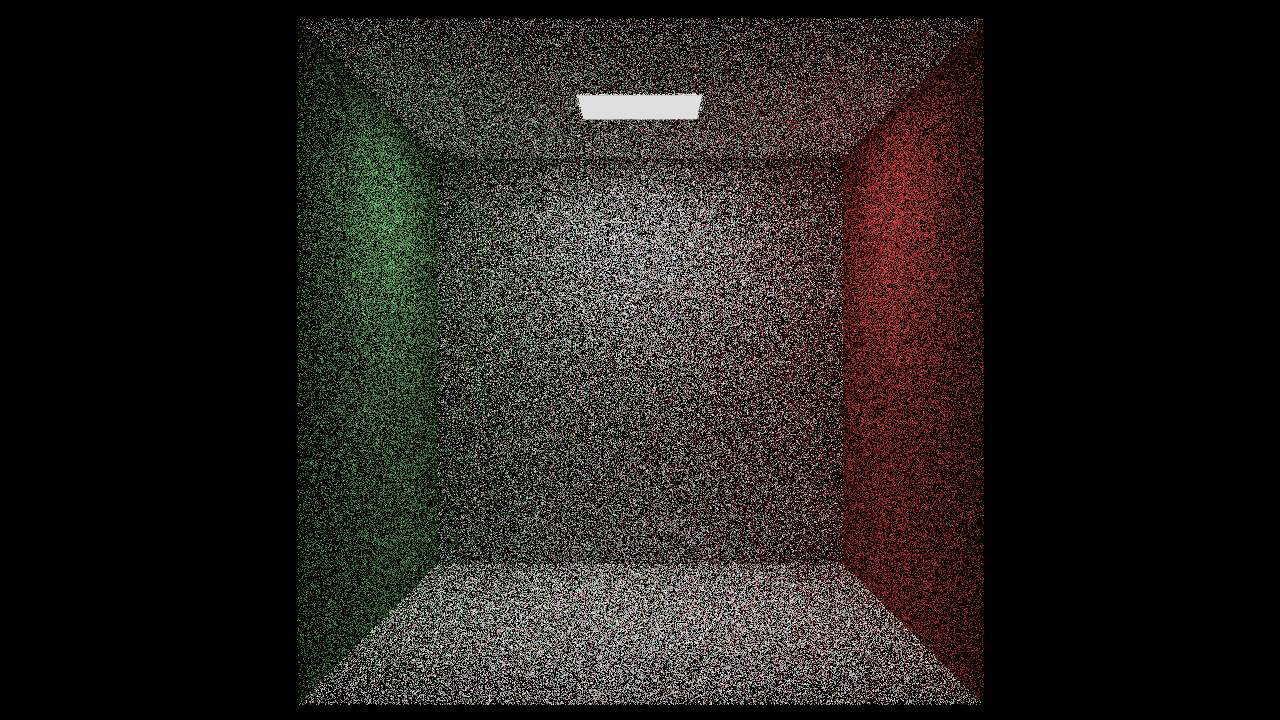
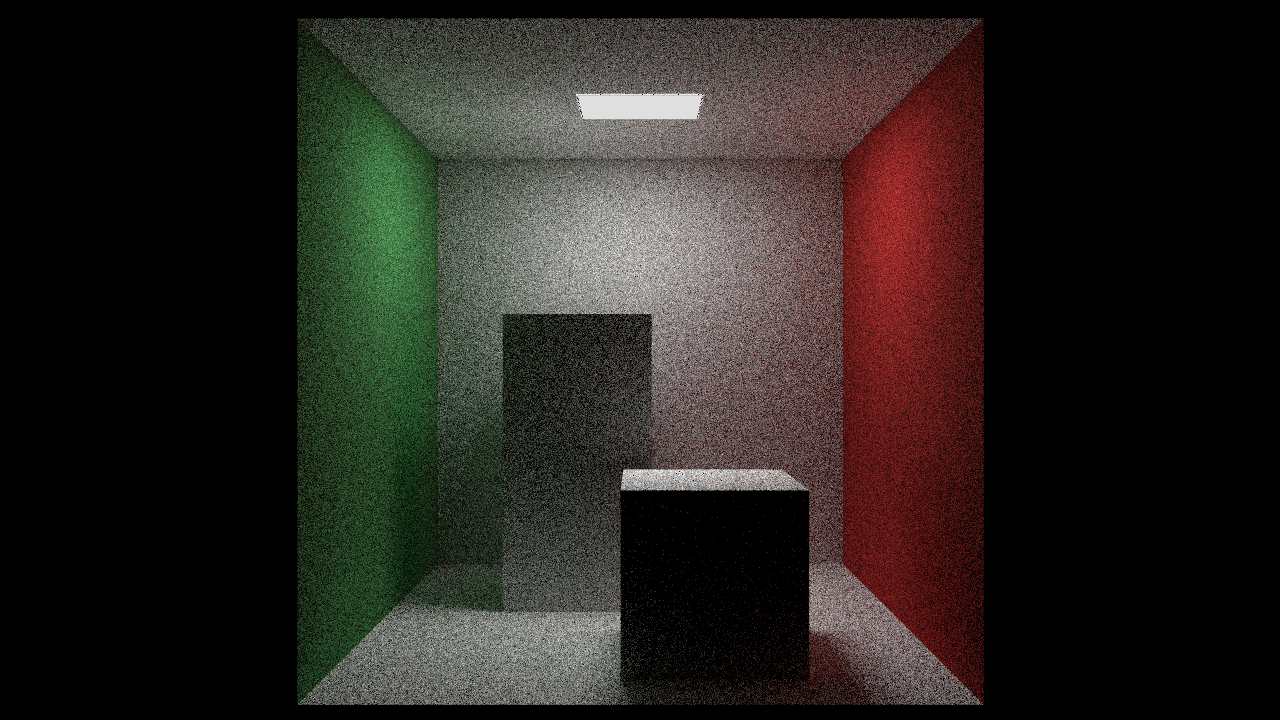
add some boxes

diff --git a/src/box_model.rs b/src/box_model.rs
@@ -1,0 +1,41 @@
+use crate::hitable::*;
+use crate::vec::Vec3;
+use crate::material::Material;
+use crate::xy_rect::*;
+use crate::ray::Ray;
+use crate::aabb::AABB;
+
+use std::sync::Arc;
+
+pub struct BoxModel {
+    hitable: Box<Hitable>,
+    pmin: Vec3,
+    pmax: Vec3
+}
+
+impl BoxModel {
+    pub fn new(p0: Vec3, p1: Vec3, material: Arc<Material>) -> Self {
+        let mut world: Vec<Box<Hitable>> = Vec::new();
+
+        world.push(Box::new(XYRect::new(p0.x, p1.x, p0.y, p1.y, p1.z, Arc::clone(&material))));
+        world.push(Box::new(FlipNormal::new(Box::new(XYRect::new(p0.x, p1.x, p0.y, p1.y, p0.z, Arc::clone(&material))))));
+
+        world.push(Box::new(XZRect::new(p0.x, p1.x, p0.z, p1.z, p1.y, Arc::clone(&material))));
+        world.push(Box::new(FlipNormal::new(Box::new(XZRect::new(p0.x, p1.x, p0.z, p1.z, p0.y, Arc::clone(&material))))));
+
+        world.push(Box::new(YZRect::new(p0.y, p1.y, p0.z, p1.z, p1.x, Arc::clone(&material))));
+        world.push(Box::new(FlipNormal::new(Box::new(YZRect::new(p0.y, p1.y, p0.z, p1.z, p0.x, Arc::clone(&material))))));
+
+        BoxModel { pmin: p0, pmax: p1, hitable: Box::new(HitableList::from_list(world)) }
+    }
+}
+
+impl Hitable for BoxModel {
+    fn hit(&self, ray: &Ray, t_range: ::std::ops::Range<f32>) -> Option<HitRecord> {
+        self.hitable.hit(ray, t_range)
+    }
+
+    fn bounding_box(&self) -> Option<AABB> {
+        Some(AABB::new(self.pmin, self.pmax))
+    }
+}

diff --git a/src/render.rs b/src/render.rs
@@ -7,6 +7,8 @@ use crate::camera::Camera;
 use crate::material::*;
 use crate::texture::*;
 use crate::xy_rect::*;
+use crate::box_model::*;
+use crate::bvh_node::*;
 
 use lodepng::RGB;
 use rand::distributions::Uniform;
@@ -198,6 +200,14 @@ fn cornell_box() -> Vec<Box<Hitable>> {
         555.0,
         Arc::clone(&white)
     )))));
+
+    world.push(Box::new(
+        BoxModel::new(Vec3::new(130.0, 0.0, 65.0), Vec3::new(295.0, 165.0, 230.0), Arc::clone(&white))
+    ));
+
+    world.push(Box::new(
+        BoxModel::new(Vec3::new(265.0, 0.0, 295.0), Vec3::new(430.0, 330.0, 460.0), Arc::clone(&white))
+    ));
 
     return world;
 }

diff --git a/src/main.rs b/src/main.rs
@@ -18,6 +18,7 @@ mod bvh_node;
 mod perlin;
 mod texture;
 mod xy_rect;
+mod box_model;
 
 use std::time::Instant;
 
@@ -26,7 +27,7 @@ fn main() {
 
     let width: usize = 1280;
     let height: usize = 720;
-    let rays = 30;
+    let rays = 200;
 
     let pixels = render::render(width, height, rays);
 
